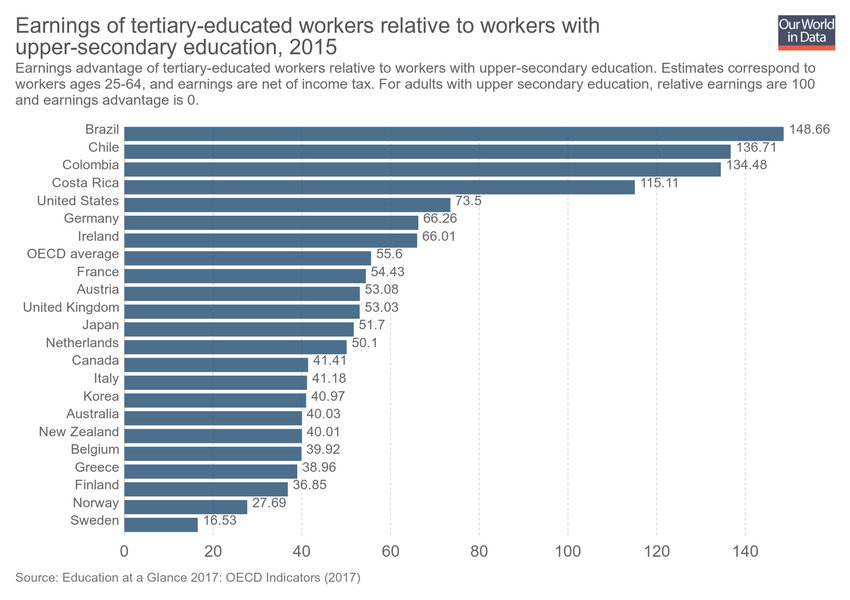
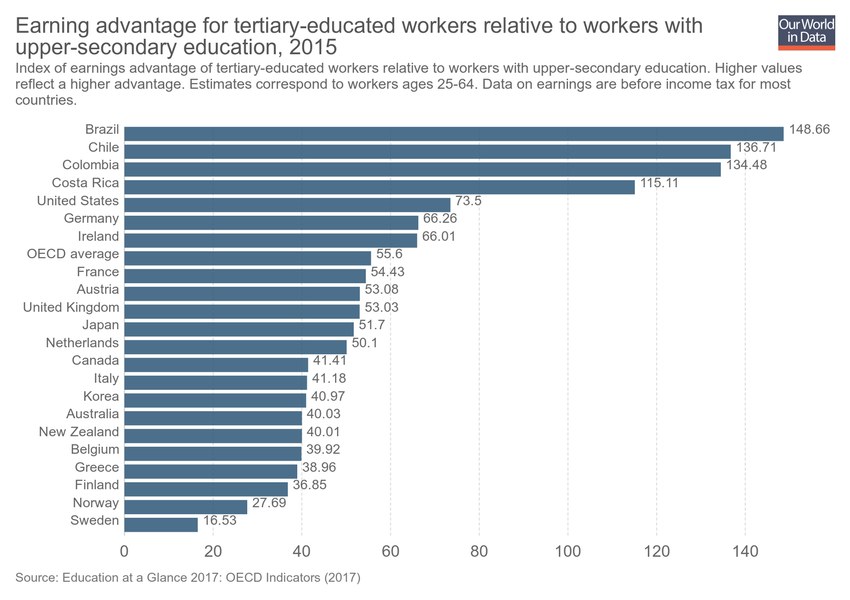
Updating chart earnings-of-tertiary-educated-workers-relative-to-workers-with-upper-secondary-education

Changed region(s): [[0.0, 0.09, 0.9788, 0.18], [0.0918, 0.03, 0.8259, 0.06]]

diff --git a/grapher/earnings-of-tertiary-educated-workers-relative-to-workers-with-upper-secondary-education.html b/grapher/earnings-of-tertiary-educated-workers-relative-to-workers-with-upper-secondary-education.html
@@ -1,4 +1,4 @@
-<!doctype html><html><head><meta name="viewport" content="width=device-width, initial-scale=1" /><title>Earnings of tertiary-educated workers relative to workers with upper-secondary education - Our World in Data</title><meta name="description" content="Earnings advantage of tertiary-educated workers relative to workers with upper-secondary education. Estimates correspond to workers ages 25-64, and earnings are net of income tax. For adults with upper secondary education, relative earnings are 100 and earnings advantage is 0." /><link rel="canonical" href="https://ourworldindata.org/grapher/earnings-of-tertiary-educated-workers-relative-to-workers-with-upper-secondary-education" /><meta property="fb:app_id" content="1149943818390250" /><meta property="og:url" content="https://ourworldindata.org/grapher/earnings-of-tertiary-educated-workers-relative-to-workers-with-upper-secondary-education" /><meta property="og:title" content="Earnings of tertiary-educated workers relative to workers with upper-secondary education" /><meta property="og:description" content="Earnings advantage of tertiary-educated workers relative to workers with upper-secondary education. Estimates correspond to workers ages 25-64, and earnings are net of income tax. For adults with upper secondary education, relative earnings are 100 and earnings advantage is 0." /><meta property="og:image" content="https://ourworldindata.org/grapher/exports/earnings-of-tertiary-educated-workers-relative-to-workers-with-upper-secondary-education.png?v=4" /><meta property="og:image:width" content="850" /><meta property="og:image:height" content="600" /><meta property="og:site_name" content="Our World in Data" /><meta name="twitter:card" content="summary_large_image" /><meta name="twitter:site" content="@OurWorldInData" /><meta name="twitter:creator" content="@OurWorldInData" /><meta name="twitter:title" content="Earnings of tertiary-educated workers relative to workers with upper-secondary education" /><meta name="twitter:description" content="Earnings advantage of tertiary-educated workers relative to workers with upper-secondary education. Estimates correspond to workers ages 25-64, and earnings are net of income tax. For adults with upper secondary education, relative earnings are 100 and earnings advantage is 0." /><meta name="twitter:image" content="https://ourworldindata.org/grapher/exports/earnings-of-tertiary-educated-workers-relative-to-workers-with-upper-secondary-education.png?v=4" /><style>
+<!doctype html><html><head><meta name="viewport" content="width=device-width, initial-scale=1" /><title>Earning advantage for tertiary-educated workers relative to workers with upper-secondary education - Our World in Data</title><meta name="description" content="Index of earnings advantage of tertiary-educated workers relative to workers with upper-secondary education. Higher values reflect a higher advantage.  Estimates correspond to workers ages 25-64. Data on earnings are before income tax for most countries." /><link rel="canonical" href="https://ourworldindata.org/grapher/earnings-of-tertiary-educated-workers-relative-to-workers-with-upper-secondary-education" /><meta property="fb:app_id" content="1149943818390250" /><meta property="og:url" content="https://ourworldindata.org/grapher/earnings-of-tertiary-educated-workers-relative-to-workers-with-upper-secondary-education" /><meta property="og:title" content="Earning advantage for tertiary-educated workers relative to workers with upper-secondary education" /><meta property="og:description" content="Index of earnings advantage of tertiary-educated workers relative to workers with upper-secondary education. Higher values reflect a higher advantage.  Estimates correspond to workers ages 25-64. Data on earnings are before income tax for most countries." /><meta property="og:image" content="https://ourworldindata.org/grapher/exports/earnings-of-tertiary-educated-workers-relative-to-workers-with-upper-secondary-education.png?v=5" /><meta property="og:image:width" content="850" /><meta property="og:image:height" content="600" /><meta property="og:site_name" content="Our World in Data" /><meta name="twitter:card" content="summary_large_image" /><meta name="twitter:site" content="@OurWorldInData" /><meta name="twitter:creator" content="@OurWorldInData" /><meta name="twitter:title" content="Earning advantage for tertiary-educated workers relative to workers with upper-secondary education" /><meta name="twitter:description" content="Index of earnings advantage of tertiary-educated workers relative to workers with upper-secondary education. Higher values reflect a higher advantage.  Estimates correspond to workers ages 25-64. Data on earnings are before income tax for most countries." /><meta name="twitter:image" content="https://ourworldindata.org/grapher/exports/earnings-of-tertiary-educated-workers-relative-to-workers-with-upper-secondary-education.png?v=5" /><style>
         html, body {
             height: 100%;
             margin: 0;
@@ -20,8 +20,8 @@
         }
     </style><noscript><style>
                     figure { display: none !important; }
-                </style></noscript><link rel="stylesheet" href="https://ourworldindata.org/grapher/assets/commons.bundle.b9f051796dbbbb7e5139.css" /><link rel="preload" href="/grapher/data/variables/97781.json?v=4" as="fetch" crossorigin /></head><body class="singleChart"><figure data-grapher-src="/grapher/earnings-of-tertiary-educated-workers-relative-to-workers-with-upper-secondary-education"></figure><noscript id="fallback"><img src="/grapher/exports/earnings-of-tertiary-educated-workers-relative-to-workers-with-upper-secondary-education.svg" /><p>Interactive visualization requires JavaScript</p></noscript><script src="https://cdn.polyfill.io/v2/polyfill.min.js?features=es6,fetch"></script><script src="https://ourworldindata.org/grapher/assets/commons.bundle.b9f051796dbbbb7e5139.js"></script><script src="https://ourworldindata.org/grapher/assets/charts.bundle.b9f051796dbbbb7e5139.js"></script><script>
-        var jsonConfig = {"id":2952,"map":{"projection":"World","colorSchemeLabels":[],"colorSchemeValues":[],"customNumericColors":[],"customCategoryColors":{},"customCategoryLabels":{},"customHiddenCategories":{}},"tab":"chart","slug":"earnings-of-tertiary-educated-workers-relative-to-workers-with-upper-secondary-education","type":"DiscreteBar","title":"Earnings of tertiary-educated workers relative to workers with upper-secondary education","xAxis":{"scaleType":"linear"},"yAxis":{"min":0,"scaleType":"linear"},"version":4,"subtitle":"Earnings advantage of tertiary-educated workers relative to workers with upper-secondary education. Estimates correspond to workers ages 25-64, and earnings are net of income tax. For adults with upper secondary education, relative earnings are 100 and earnings advantage is 0.","hasMapTab":false,"stackMode":"absolute","dimensions":[{"display":{},"property":"y","variableId":97781}],"hasChartTab":true,"isPublished":true,"selectedData":[{"index":0,"entityId":10},{"index":0,"entityId":8},{"index":0,"entityId":166},{"index":0,"entityId":3},{"index":0,"entityId":149},{"index":0,"entityId":14},{"index":0,"entityId":2},{"index":0,"entityId":23},{"index":0,"entityId":24},{"index":0,"entityId":172},{"index":0,"entityId":5},{"index":0,"entityId":106},{"index":0,"entityId":102},{"index":0,"entityId":3783},{"index":0,"entityId":31416},{"index":0,"entityId":44},{"index":0,"entityId":6},{"index":0,"entityId":4},{"index":0,"entityId":155},{"index":0,"entityId":1},{"index":0,"entityId":13},{"index":0,"entityId":37},{"index":0,"entityId":170}],"addCountryMode":"add-country"};
+                </style></noscript><link rel="stylesheet" href="https://ourworldindata.org/grapher/assets/commons.bundle.b9f051796dbbbb7e5139.css" /><link rel="preload" href="/grapher/data/variables/97781.json?v=5" as="fetch" crossorigin /></head><body class="singleChart"><figure data-grapher-src="/grapher/earnings-of-tertiary-educated-workers-relative-to-workers-with-upper-secondary-education"></figure><noscript id="fallback"><img src="/grapher/exports/earnings-of-tertiary-educated-workers-relative-to-workers-with-upper-secondary-education.svg" /><p>Interactive visualization requires JavaScript</p></noscript><script src="https://cdn.polyfill.io/v2/polyfill.min.js?features=es6,fetch"></script><script src="https://ourworldindata.org/grapher/assets/commons.bundle.b9f051796dbbbb7e5139.js"></script><script src="https://ourworldindata.org/grapher/assets/charts.bundle.b9f051796dbbbb7e5139.js"></script><script>
+        var jsonConfig = {"id":2952,"map":{"projection":"World","colorSchemeLabels":[],"colorSchemeValues":[],"customNumericColors":[],"customCategoryColors":{},"customCategoryLabels":{},"customHiddenCategories":{}},"tab":"chart","slug":"earnings-of-tertiary-educated-workers-relative-to-workers-with-upper-secondary-education","type":"DiscreteBar","title":"Earning advantage for tertiary-educated workers relative to workers with upper-secondary education","xAxis":{"scaleType":"linear"},"yAxis":{"min":0,"scaleType":"linear"},"version":5,"subtitle":"Index of earnings advantage of tertiary-educated workers relative to workers with upper-secondary education. Higher values reflect a higher advantage.  Estimates correspond to workers ages 25-64. Data on earnings are before income tax for most countries.","hasMapTab":false,"stackMode":"absolute","dimensions":[{"display":{},"property":"y","variableId":97781}],"hasChartTab":true,"isPublished":true,"selectedData":[{"index":0,"entityId":10},{"index":0,"entityId":8},{"index":0,"entityId":166},{"index":0,"entityId":3},{"index":0,"entityId":149},{"index":0,"entityId":14},{"index":0,"entityId":2},{"index":0,"entityId":23},{"index":0,"entityId":24},{"index":0,"entityId":172},{"index":0,"entityId":5},{"index":0,"entityId":106},{"index":0,"entityId":102},{"index":0,"entityId":3783},{"index":0,"entityId":31416},{"index":0,"entityId":44},{"index":0,"entityId":6},{"index":0,"entityId":4},{"index":0,"entityId":155},{"index":0,"entityId":1},{"index":0,"entityId":13},{"index":0,"entityId":37},{"index":0,"entityId":170}],"addCountryMode":"add-country"};
         var figure = document.getElementsByTagName("figure")[0];
         try {
             window.App = {};
